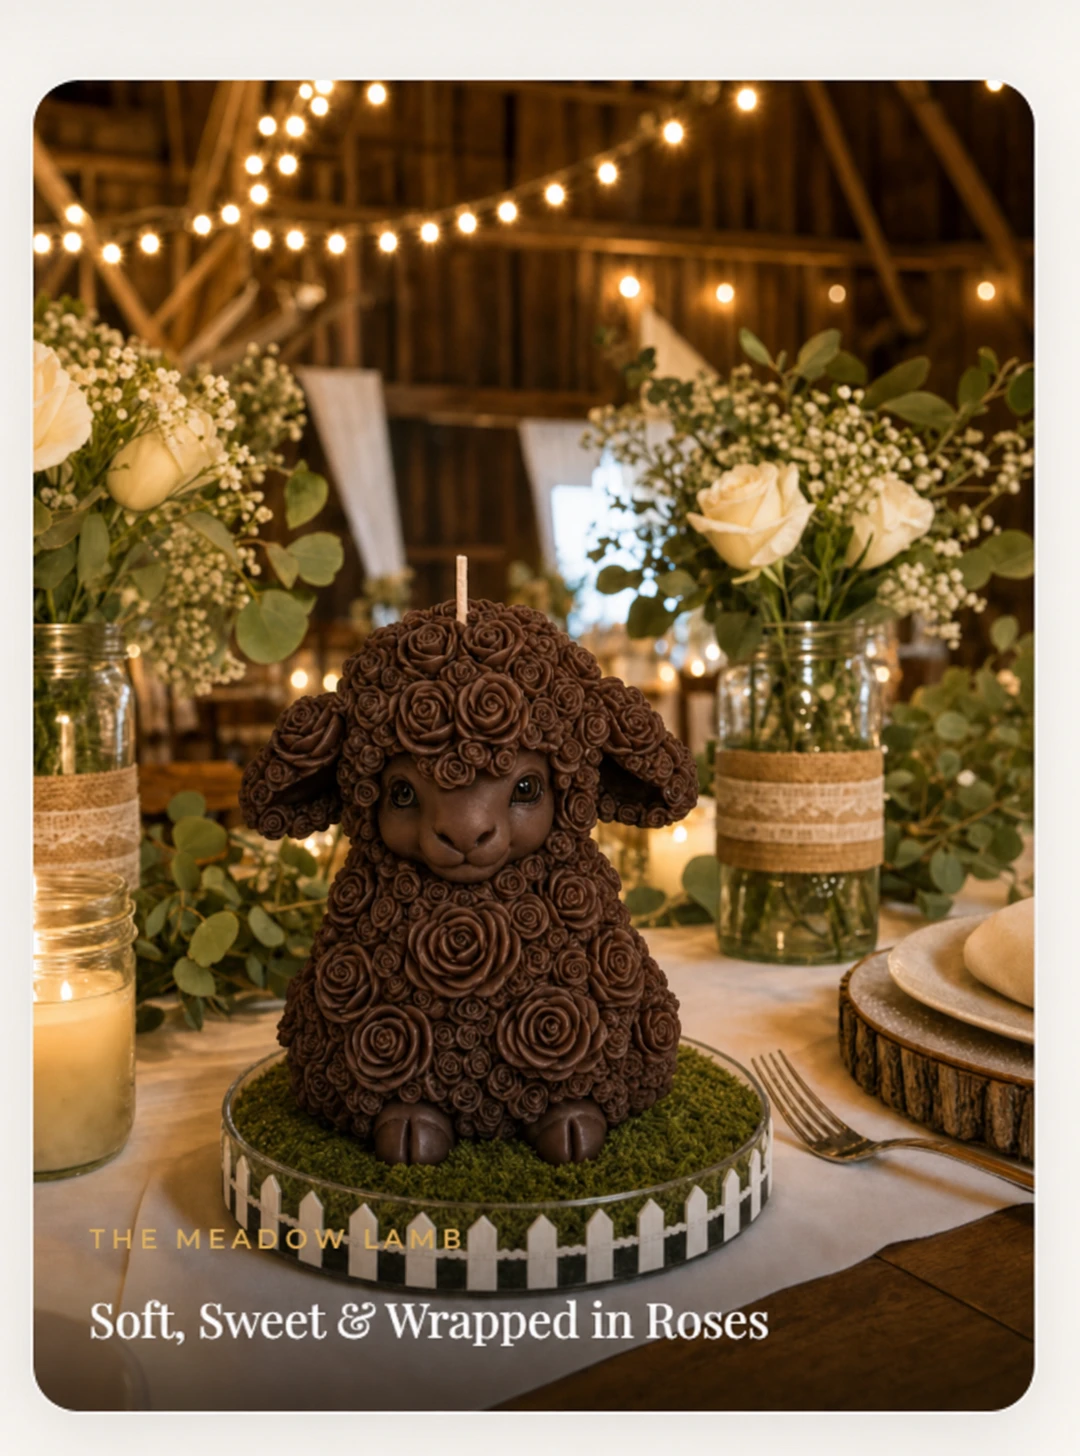
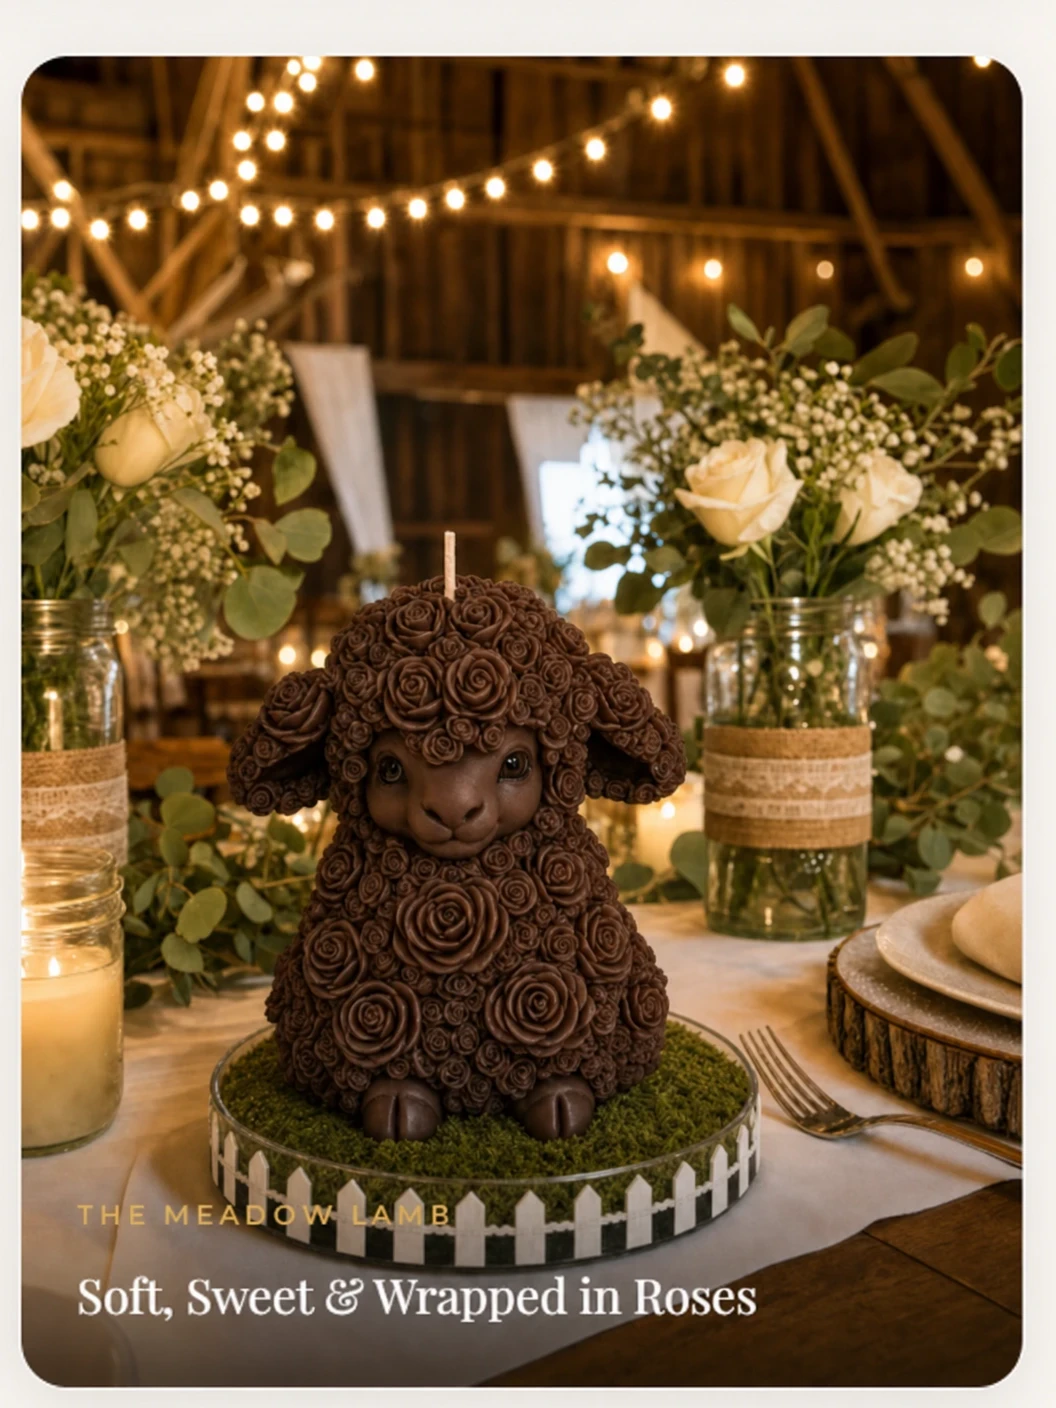
Fix sheep card size + bold gold eyebrow text on all wedding cards

diff --git a/index.html b/index.html
@@ -328,21 +328,21 @@
       <div class="reveal" style="border-radius:16px; overflow:hidden; box-shadow:0 6px 24px rgba(44,26,14,0.1); position:relative;">
         <img src="images/wedding_cow_closeup.webp" alt="Beige Highland Cow candle at wedding place setting" loading="lazy" style="width:100%; aspect-ratio:3/4; object-fit:cover; display:block;">
         <div style="position:absolute; bottom:0; left:0; right:0; background:linear-gradient(transparent, rgba(20,12,5,0.78)); padding:24px 20px 18px; color:#fff;">
-          <p style="font-family:'Lato',sans-serif; font-size:0.85rem; letter-spacing:0.2em; text-transform:uppercase; color:#D4A853; margin:0 0 4px;">The Highland Cow</p>
+          <p style="font-family:'Lato',sans-serif; font-size:0.85rem; font-weight:700; letter-spacing:0.2em; text-transform:uppercase; color:#D4A853; margin:0 0 4px;">The Highland Cow</p>
           <p style="font-family:'Playfair Display',serif; font-size:1.05rem; font-weight:400; margin:0;">The Star of the Pasture</p>
         </div>
       </div>
       <div class="reveal reveal-delay-1" style="border-radius:16px; overflow:hidden; box-shadow:0 6px 24px rgba(44,26,14,0.1); position:relative;">
         <img src="images/wedding_pig_final.webp" alt="White Farmhouse Pig candle at wedding place setting" loading="lazy" style="width:100%; aspect-ratio:3/4; object-fit:cover; display:block;">
         <div style="position:absolute; bottom:0; left:0; right:0; background:linear-gradient(transparent, rgba(20,12,5,0.78)); padding:24px 20px 18px; color:#fff;">
-          <p style="font-family:'Lato',sans-serif; font-size:0.85rem; letter-spacing:0.2em; text-transform:uppercase; color:#D4A853; margin:0 0 4px;">The Farmhouse Pig</p>
+          <p style="font-family:'Lato',sans-serif; font-size:0.85rem; font-weight:700; letter-spacing:0.2em; text-transform:uppercase; color:#D4A853; margin:0 0 4px;">The Farmhouse Pig</p>
           <p style="font-family:'Playfair Display',serif; font-size:1.05rem; font-weight:400; margin:0;">Snout-to-Tail in Roses</p>
         </div>
       </div>
       <div class="reveal reveal-delay-2" style="border-radius:16px; overflow:hidden; box-shadow:0 6px 24px rgba(44,26,14,0.1); position:relative;">
         <img src="images/sheep_dark_brown.webp" alt="Dark Brown Meadow Lamb candle at wedding place setting" loading="lazy" style="width:100%; aspect-ratio:3/4; object-fit:cover; display:block;">
         <div style="position:absolute; bottom:0; left:0; right:0; background:linear-gradient(transparent, rgba(20,12,5,0.78)); padding:24px 20px 18px; color:#fff;">
-          <p style="font-family:'Lato',sans-serif; font-size:0.85rem; letter-spacing:0.2em; text-transform:uppercase; color:#D4A853; margin:0 0 4px;">The Meadow Lamb</p>
+          <p style="font-family:'Lato',sans-serif; font-size:0.85rem; font-weight:700; letter-spacing:0.2em; text-transform:uppercase; color:#D4A853; margin:0 0 4px;">The Meadow Lamb</p>
           <p style="font-family:'Playfair Display',serif; font-size:1.05rem; font-weight:400; margin:0;">Soft, Sweet &amp; Wrapped in Roses</p>
         </div>
       </div>
